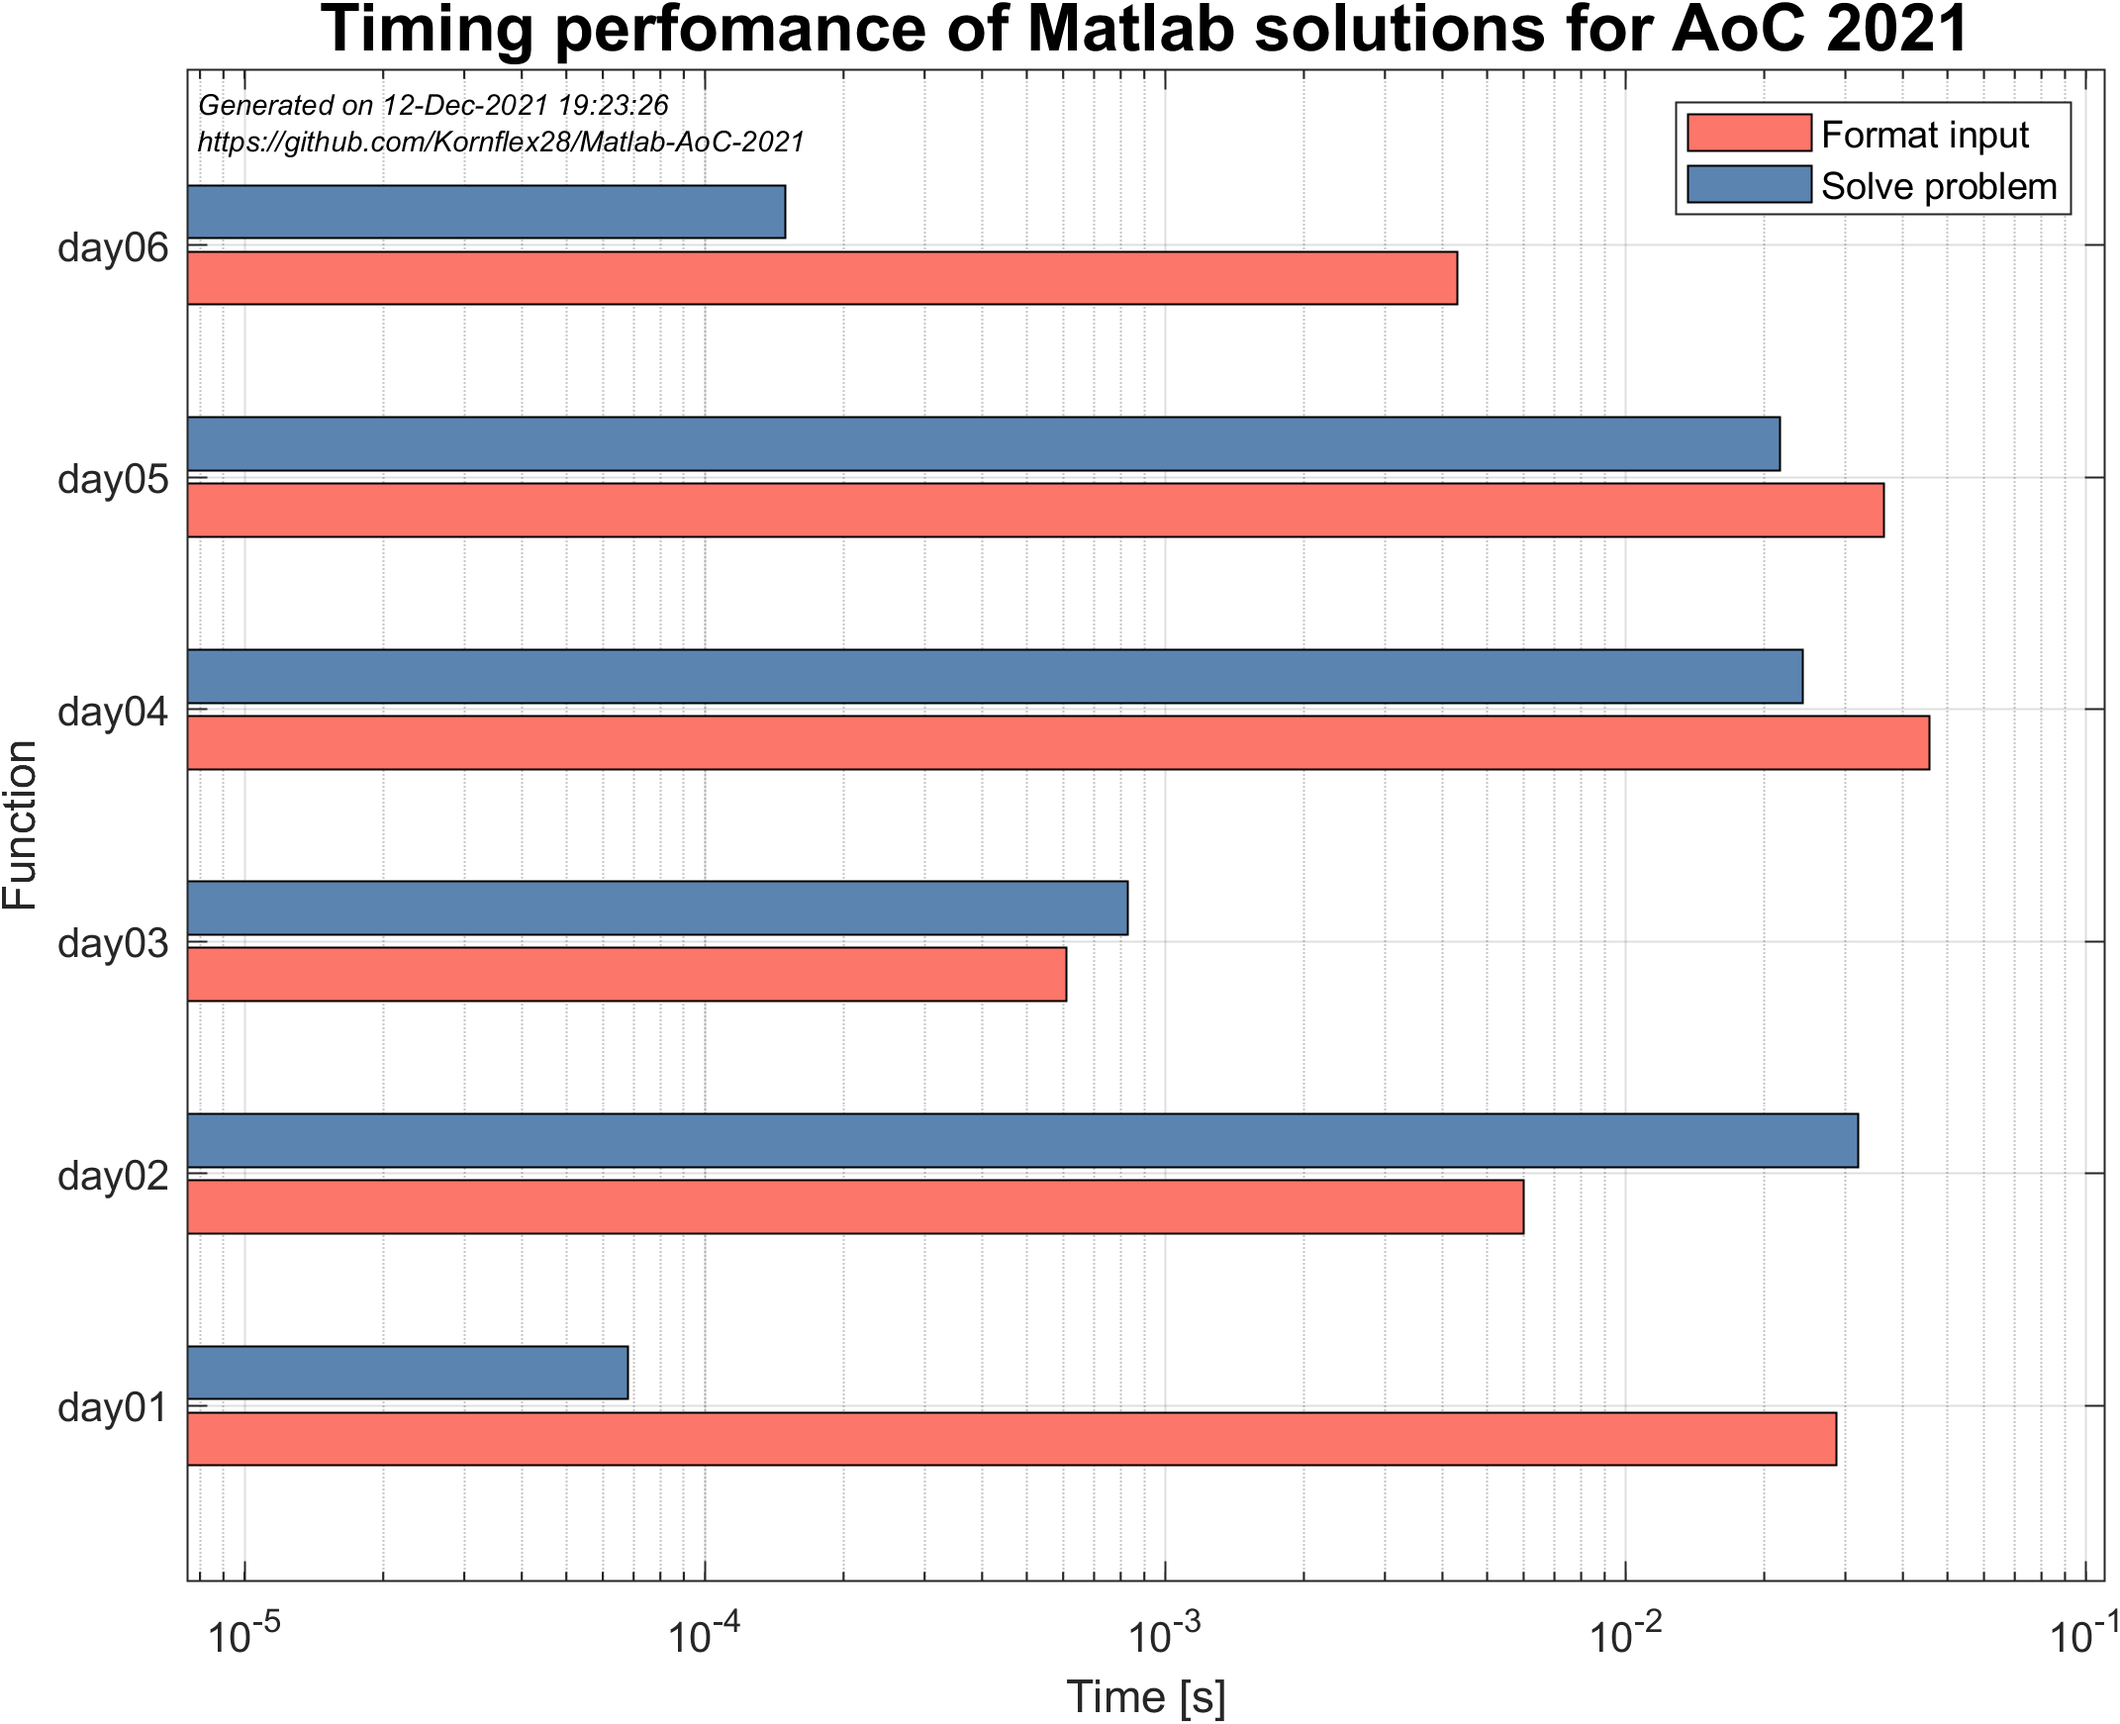
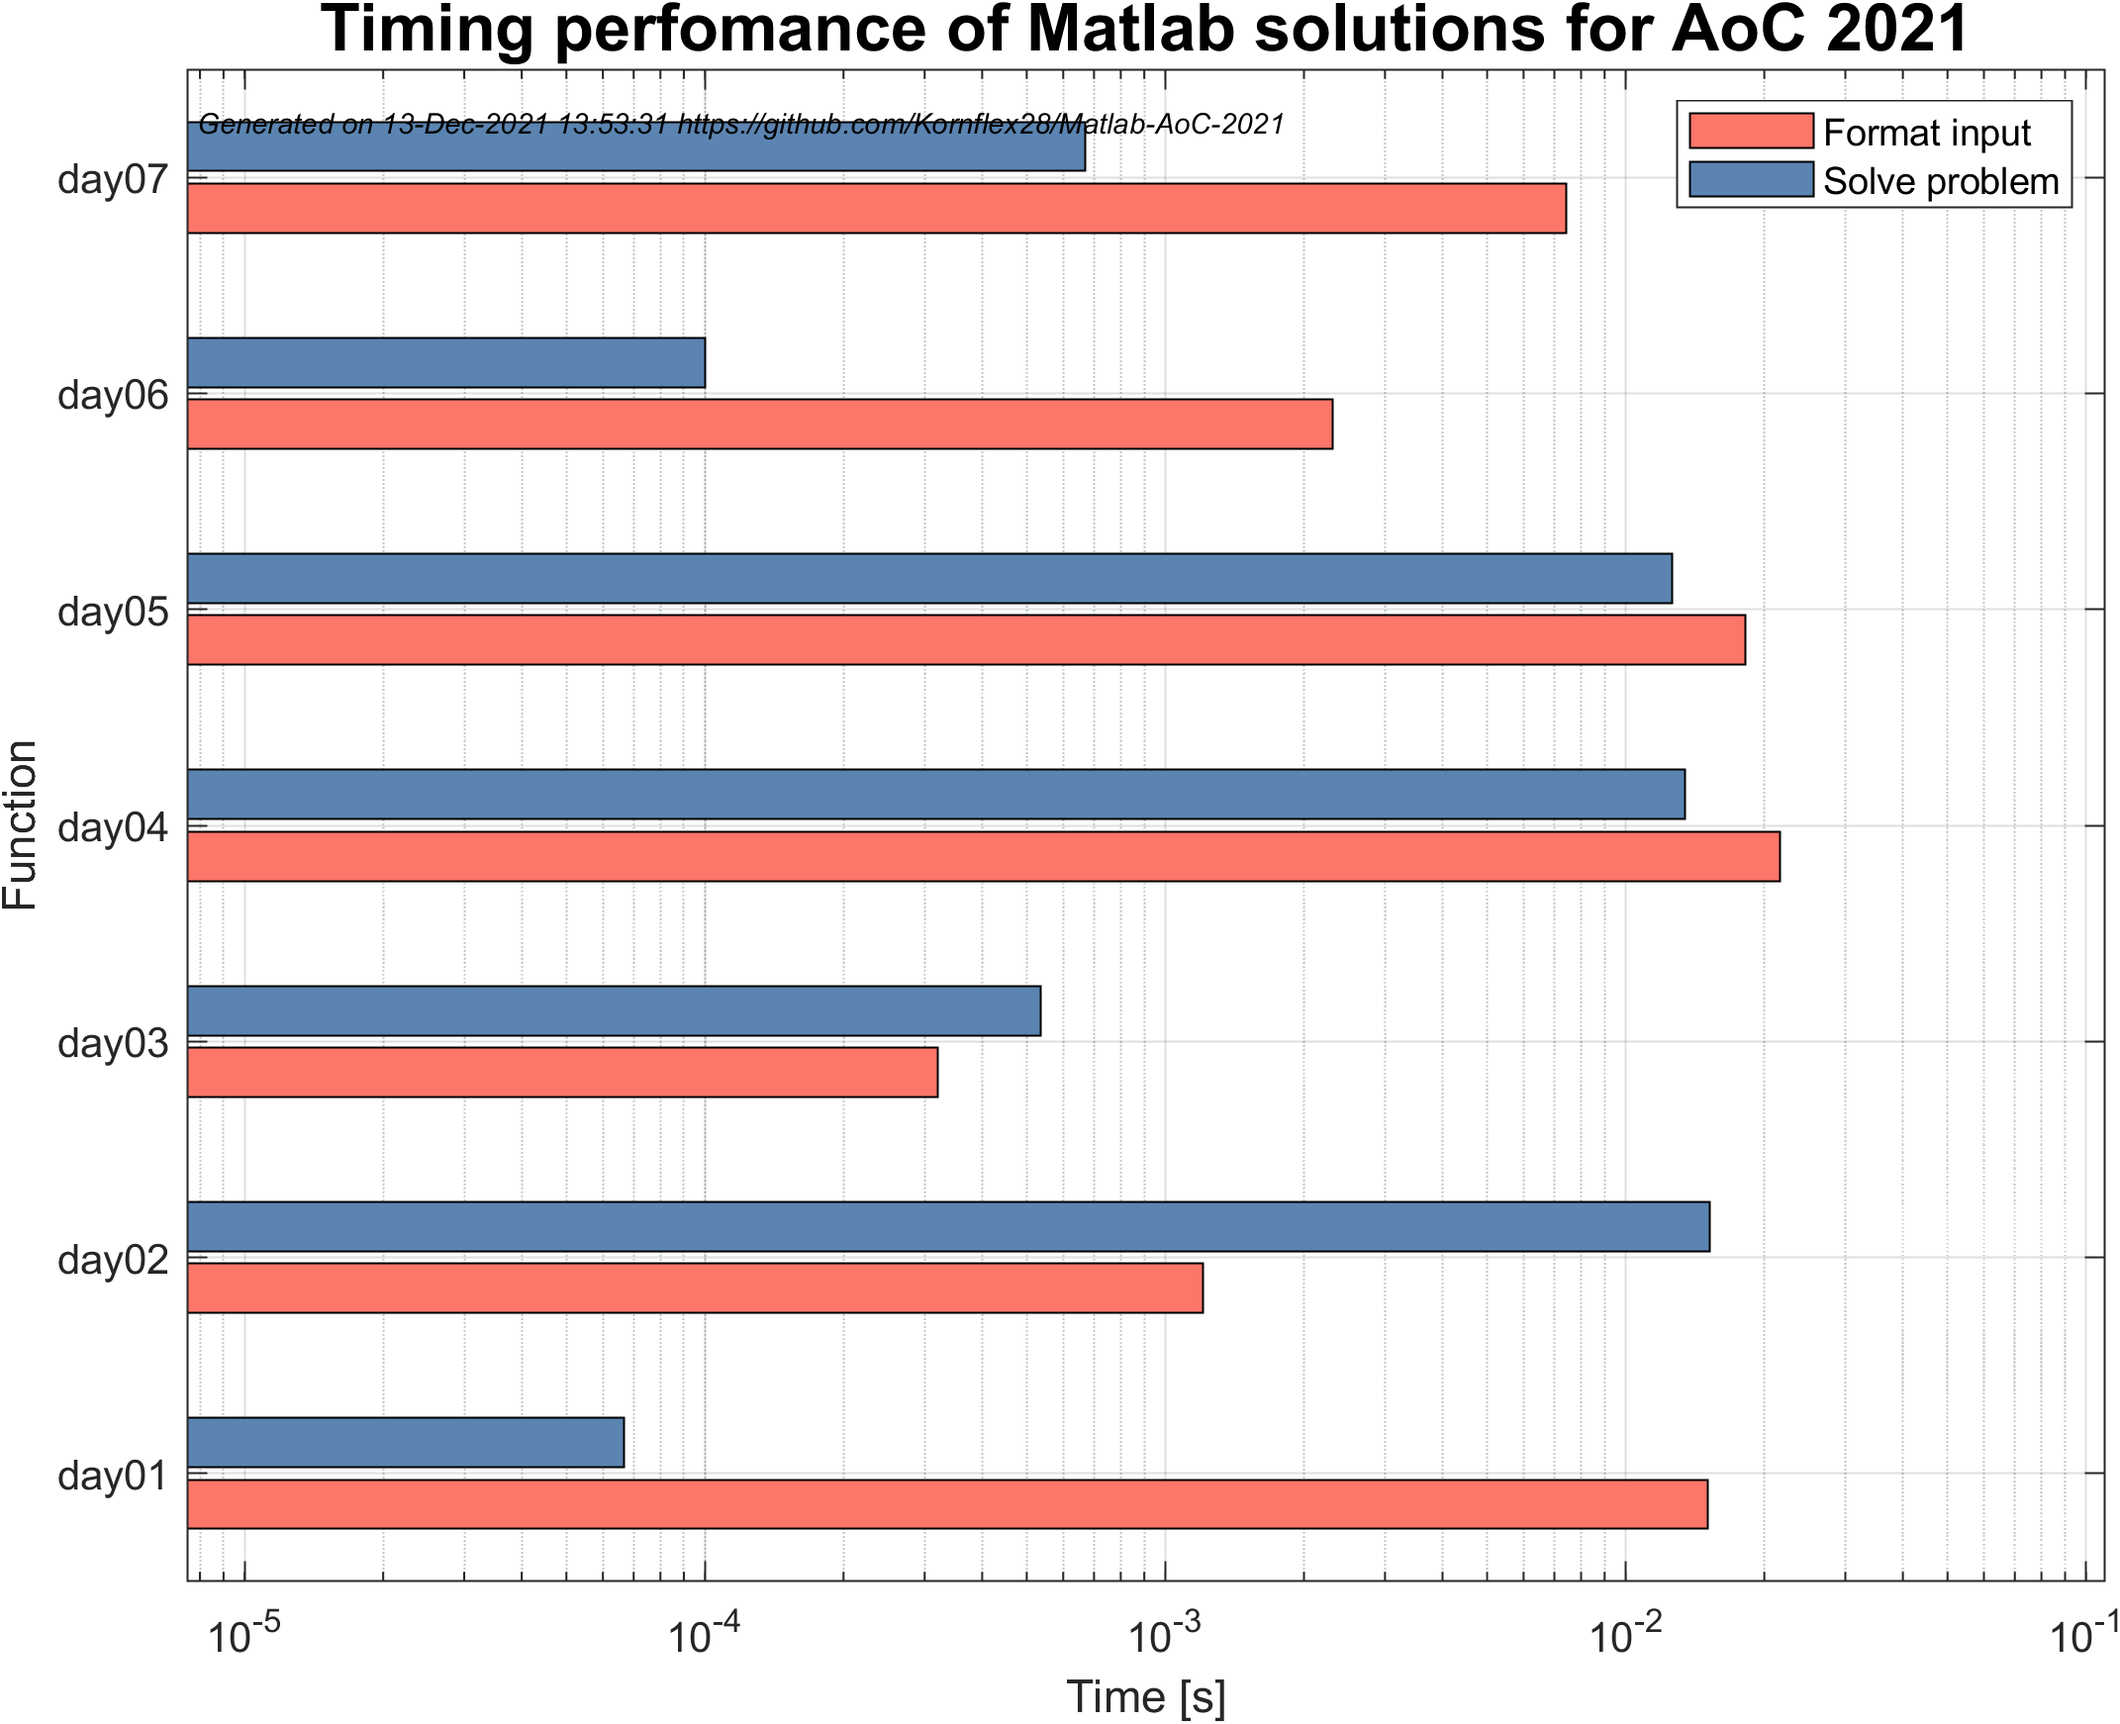
day 7

diff --git a/solutions/day08.m b/solutions/day08.m
@@ -1,0 +1,61 @@
+function [t,solution1,solution2] = day08(verbose)
+%DAY08  Solve day 8 problem of AoC 2021
+% Author : L. Chauvet
+% Date   : 2021/12/13
+% 
+% --- Day 8: Seven Segment Search ---
+% Problem URL : https://adventofcode.com/2021/day/8
+%
+arguments
+    verbose (1,1) double = 1
+end
+%% GET INPUT
+d = 8;
+input_data_str = fetch_input(d);
+tic;
+[patterns, outputs] = format_data(input_data_str);
+t_format = toc;
+
+
+%% SOLVING
+tic;
+
+translate_digits(patterns)
+
+% Solution 1
+outputs_lengths = cellfun(@length,outputs);
+solution1 = sum(outputs_lengths == 2 | outputs_lengths == 3 | ...
+                outputs_lengths == 4 | outputs_lengths == 7 , 'all');
+
+% Solution 2
+
+t_end = toc;
+%% LOGS
+if verbose
+    print_solution(d,solution1,solution2);
+    print_elapsed_time(t_format,t_end)
+end
+
+t = [t_format;t_end];
+
+if nargout == 0
+    clear solution1 solution2 t
+end
+%% HELPER FUNCTIONS
+function [patterns, output] = format_data(data_str)
+    data = strtrim(split(splitlines(data_str),'|'));
+    patterns = split(data(:,1));
+    output   = split(data(:,2));
+end
+
+function translate_digits(patterns)
+    patterns1 = flipud(patterns(cellfun(@length,patterns)==2));
+    patterns7 = flipud(patterns(cellfun(@length,patterns)==3));
+    patterns4 = flipud(patterns(cellfun(@length,patterns)==4));
+    patterns8 = flipud(patterns(cellfun(@length,patterns)==7));
+    
+    segmentsa = cellfun(@setdiff,patterns7,patterns1);
+    
+end
+
+end

diff --git a/solutions/day07.m b/solutions/day07.m
@@ -1,0 +1,58 @@
+function [t,solution1,solution2] = day07(verbose)
+%DAY07  Solve day 7 problem of AoC 2021
+% Author : L. Chauvet
+% Date   : 2021/12/13
+% 
+% --- Day 7: The Treachery of Whales ---
+% Problem URL : https://adventofcode.com/2021/day/7
+%
+arguments
+    verbose (1,1) double = 1
+end
+%% GET INPUT
+d = 7;
+input_data_str = fetch_input(d);
+tic;
+input_data = format_data(input_data_str);
+t_format = toc;
+
+
+%% SOLVING
+tic;
+
+% Solution 1
+best_position1 = median(input_data);
+solution1 = get_cost1(input_data,best_position1);
+
+% Solution 2
+best_position2 = round(fminsearch(@(x) get_cost2(input_data,x),mean(input_data)));
+solution2 = get_cost2(input_data,best_position2);
+
+t_end = toc;
+%% LOGS
+if verbose
+    print_solution(d,solution1,solution2);
+    print_elapsed_time(t_format,t_end)
+end
+
+t = [t_format;t_end];
+
+if nargout == 0
+    clear solution1 solution2 t
+end
+%% HELPER FUNCTIONS
+function [data] = format_data(data_str)
+    data = str2double(split(data_str,','));
+end
+
+function [cost] = get_cost1(positions,target)
+   % Get simple fuel cost
+   cost = sum(abs(positions-target)) ;
+end
+
+function [cost] = get_cost2(positions,target)
+   % Get second fuel cost using sum(i,1,n) = .5*n*(n+1)
+   cost = sum(.5*abs(positions-target).*(abs(positions-target)+1)) ;
+end
+
+end

diff --git a/utils/plot_performance.m b/utils/plot_performance.m
@@ -17,7 +17,7 @@ legend(barAx,{'Format input','Solve problem'})
 barObj(1).FaceColor = '#FC766A';
 barObj(2).FaceColor = '#5B84B1';
 
-annotation = sprintf('Generated on %s\nhttps://github.com/Kornflex28/Matlab-AoC-2021',datestr(now));
+annotation = sprintf('Generated on %s https://github.com/Kornflex28/Matlab-AoC-2021',datestr(now));
 text(barAx,'String',annotation,...
     'Units','normalized','Position',[0.005 .965],...
     'FontSize',7,'FontAngle','italic')

diff --git a/solutions/day06.m b/solutions/day06.m
@@ -55,7 +55,7 @@ function [data] = format_data(data_str)
     data = str2double(split(data_str,','));
 end
 
-    function [population] = pass_day(population)
+function [population] = pass_day(population)
     % Pass one day given a population identified by their internal timer
     pop0 = population(1); % population of internal timer 0
     population = circshift(population,-1);
